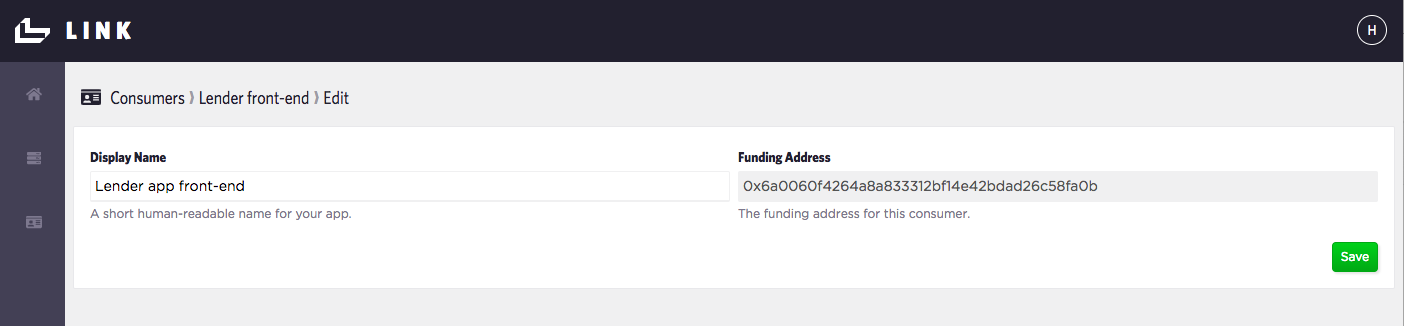
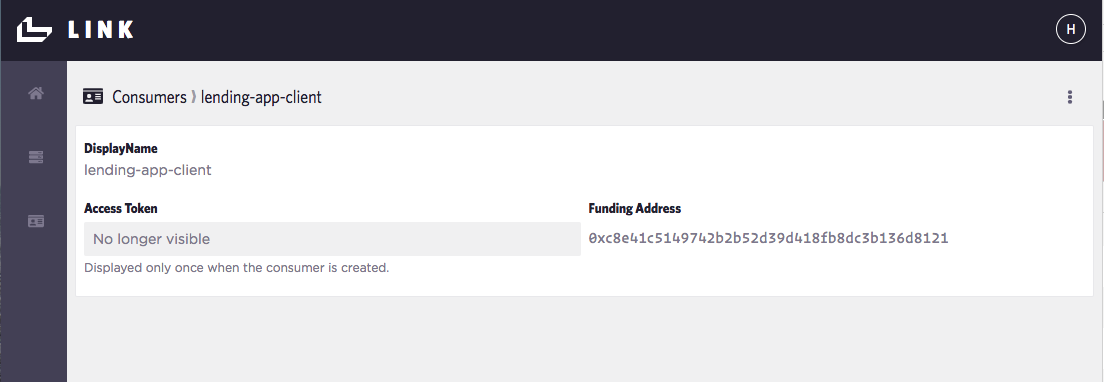
Add activity 5

Changed region(s): [[0.0, 0.0, 1.0, 1.0], [0.5236, 0.4601, 0.8623, 0.6748], [0.9239, 0.4908, 1.0, 1.0]]

diff --git a/activity5/activity5.md b/activity5/activity5.md
@@ -1,12 +1,14 @@
-# Refactor your Lending DApp to use Blockmason Link
+# Refactor your Lending App to use Blockmason Link
 ## Goal
-In this activity, we will use Link - a smart contract API wrapper to refactor our Lending DApp.
+In this activity, we will use Link - a smart contract API wrapper to refactor our Lending app's `createLoan()` function. 
+
+**Note:** Link is still in early stage beta and so its setup and use will not be as streamlined as we intent it to be in the near future. But you get the first peek! 
 
 ## Exercise
 This activity will require you to:
 * Add your Lending smart contract to Link
-* Refactor your app.js to use Link
-* Compare and contrast the effort in building DApps using traditional web3js tools vs. Link
+* Refactor the `createLoan()` function in app.js to use Link
+* Compare and contrast the approaches (web3.js vs. Link)
 
 ### Link Setup
 > Obtain your Link invitation code
@@ -68,14 +70,16 @@ The Lending contract address in this case is `0xc980b32ed01fac955520f390fde00518
 
 ![Link App Setup](images/Link_App_setup.png)
 
-This creates an app with 3 functions:
+This creates an app with 3 functions. Note the data types on the right represent the _**return data type(s)**_ of the function call on the left. 
 
 ![Link App Functions](images/Link_App_functions.png)
 
-The first function is the `addLoan(...)` which takes in 5 parameters. Next we have the `loans` array which takes in a Loan ID parameter to retrive a Loan object. Finally, we have the `loansCount` variable which does not take in any parameters. 
+The first function `loans(loanID)` retrieves a `Loan` object that contains the creditor address, debtor address, amount uint, term uint and interest rate uint. Next we have the `loansCount` value which is just an uint. Finally, we have the `addLoan(..)` function which does return anything. 
 
 ### Consumers Setup
-In Link, _consumers_ represent front-end apps, individuals or anything that will transact with the smart contract on the network. For this activity, create a `Lender app front-end` consumer which will be provided with a **Funding Address**. 
+In Link, _consumers_ represent front-end apps, individuals or anything that will transact with the smart contract on the network. For this activity, create a `lending-app-client` consumer which will be provided with a **Funding Address**. 
+
+> The important thing to take note of here is the **Access Token that will only be displayed once** after you have created your consumer. Copy this Access Token which will be used when making the Link API calls.
 
 ![Link Consumer Setup](images/Link_Consumer_setup.png)
 
@@ -86,34 +90,72 @@ In Link, _consumers_ represent front-end apps, individuals or anything that will
 ### Blockmason Link API documentation
 > The API documentation can be found here: https://mason.link/api/
 
-### Constructing the API Request
-Each consumer in Link will have a _**Consumer Access Token**_ to be used when making requests. Think of this token as the API key which you will need to send as part of the `access_token` request query parameter. 
+### Constructing the API POST Request
+> It is recommended that you download a tool like Postman, or if you prefer to use cURL statements in the Terminal, to help construct the POST request first before we implement the `$.post(), $.ajax()` function in our `app.js`.
 
-> Here's an example of a cURL POST request to the endpoint `lending-app/loansCount`.  Note: Pipe the response into a json formatter like `python json.tool`:
+
+Each consumer in Link will use the _**Consumer Access Token**_ you copied before when making requests. Think of this token as the API key which you will need to send as part of the `access_token` request query parameter. For example:
+``` 
+https://api.block.mason.link/@harish/lending-app/addLoan?access_token=<consumer_access_token>
 ```
-curl -X POST -H 'Content-Type: application/json' 'https://api.block.mason.link/@harish/lending-app/loansCount?access_token=gyObHEUPNPDJm2VgY9tDHI23c-mrSr5KdHBUvgOxSJaI' | python -m json.tool
+
+Because we are making POST requests to a remote network, it will take some time for the requests to resolve. Recall in an earlier activity that transactions with the `Ropsten` network would take 20-30 seconds to process. 
+
+The approach with Link for executing POST requests is as follows:
+1. The POST request immediately returns a json response object that contains details of the request as well as an `id`.
+2. We can query the `id` to see if the request has successfully resolved.
+
+Let's look at this in action as we POST to the `addLoan` function.
+
+> The `addLoan` function takes the following parameters:
+* "creditor" : address string
+* "debtor" : address string
+* "amount" : integer* (or hex string)
+* "term": integer (or hex string)
+* "interest": integer(or hex string)
+
+The reason for specifying _(or hex string)_ is because eventually everything passed into a Solidity contract function gets serialized before being transacted on the Ethereum network. 
+
+Recall that the `amount` is in Wei which, for 1 ETH is 10^18 Wei. This number is too large to be represented in JavaScript as a raw number. Hence, it needs to be converted into hex string for our POST request. The `term` and `interest` values are small and OK to use as integers. 
+
+> Putting it all together into a cURL statement, we get:
 ```
-And here is the `CreateInvocationResponse` object that is returned:
+curl -X POST -H 'Content-Type: application/json' -d '{ "creditor":"0xdef4f71e2da944ca4118c04ccf120f8a2bc7b92b","debtor":"0x20ecfb735eead9902b43cd553f485fd7a04d2791",
+"amount":"0x29a2241af62c0000",
+"term":6,
+"interest":3
+}' 'https://api.block.mason.link/@harish/lending-app/addLoan?access_token=33uTbK_be1F2GOw0glhQRoerT_Y3f8WMUaXqJ9kUREzR' | python -m json.tool
+```
+Note: By piping the response into a json formatter like `python json.tool`, we get a nicer output.
+
+
+The response looks like:
 ```
 {
     "data": {
         "attributes": {
-            "createdAt": "2018-11-14T01:29:22.684Z",
-            "inputs": {},
+            "createdAt": "2018-11-16T01:21:30.353Z",
+            "inputs": {
+                "creditor": "0xdef4f71e2da944ca4118c04ccf120f8a2bc7b92b",
+                "debtor": "0x20ecfb735eead9902b43cd553f485fd7a04d2791",
+                "amount": "0x29a2241af62c0000",
+                "term": 6,
+                "interest": 3
+            },
             "isRejected": false,
             "isResolved": false
         },
-        "id": "86N4M_mcl2Qke9EaeB-Fa5XFwL0e8G4mcobXVKGMAx0",
+        "id": "LQ7bzzQY7hFbIB2M4QjUdv85vLHkPFoIKNDLrwHX5m4",
         "relationships": {
             "function": {
                 "data": {
-                    "id": "DyNsZFQsxP87TaiYIT4DdmDB-fta3CjJbYytiDEdDAA",
+                    "id": "hx02iGhC7xf_qZpgs66tciazf2FzIc6NnIylbxevVhk",
                     "type": "function"
                 }
             },
             "owner": {
                 "data": {
-                    "id": "66ec4soxCaPD8d05jJKO_pSSsKT6qd_N-gxg-jRQ-IM",
+                    "id": "JD66EmDSP2BaA9isk1See6VPKN3rKdYiUd9QExxgzxs",
                     "type": "consumer"
                 }
             }
@@ -123,53 +165,85 @@ And here is the `CreateInvocationResponse` object that is returned:
     "jsonapi": "1.0",
     "meta": {
         "name": "@blockmason/link-api",
-        "version": "0.6.3"
+        "version": "0.7.0"
     }
 }
 ```
-Because we are making transaction requests to a remote network (Ropsten in this case), we essentially get back an object containing an _invocation_ id that we can use to make a follow-up GET request for the result. Think of it as somewhat like a process with a ticketing system - you make a request to get the latest `loansCount` value, receive a ticket,and then poll the system with the ticket ID to get the value. From the above reponse, the invocation id is `86N4M_mcl2Qke9EaeB-Fa5XFwL0e8G4mcobXVKGMAx0`. 
+In Postman, the request body and resulting output look like:
 
-> We then make a follow-up GET request using the invocation id (and the access token): 
+![Link Postman Request](images/Link_Postman_req_resp.png)
+
+> Now to check that the POST request successfully resolved, we use the response's `data.id` identifier, which above is `LQ7bzzQY7hFbIB2M4QjUdv85vLHkPFoIKNDLrwHX5m4` to make a subsequent GET request to the following URL:
+
 ```
-curl 'https://api.block.mason.link/invocations/86N4M_mcl2Qke9EaeB-Fa5XFwL0e8G4mcobXVKGMAx0?access_token=gyObHEUPNPDJm2VgY9tDHI23c-mrSr5KdHBUvgOxSJaI' | python -m json.tool
+https://api.block.mason.link/invocations/LQ7bzzQY7hFbIB2M4QjUdv85vLHkPFoIKNDLrwHX5m4?access_token=33uTbK_be1F2GOw0glhQRoerT_Y3f8WMUaXqJ9kUREzR
 ```
-And the output object looks like:
+Note the `/invocations/` as part of the URL. The response will look something like:
 ```
 {
     "data": {
         "attributes": {
-            "createdAt": "2018-11-14T01:02:55.023Z",
-            "inputs": {},
+            "createdAt": "2018-11-16T01:38:25.123Z",
+            "inputs": {
+                "creditor": "0xdef4f71e2da944ca4118c04ccf120f8a2bc7b92b",
+                "debtor": "0x20ecfb735eead9902b43cd553f485fd7a04d2791",
+                "amount": "0x29a2241af62c0000",
+                "term": 4,
+                "interest": 4
+            },
             "isRejected": false,
             "isResolved": true,
-            "outputs": [
-                1
-            ]
+            "outputs": {}
         },
         "relationships": {
             "function": {
                 "data": {
-                    "id": "DyNsZFQsxP87TaiYIT4DdmDB-fta3CjJbYytiDEdDAA",
+                    "id": "hx02iGhC7xf_qZpgs66tciazf2FzIc6NnIylbxevVhk",
                     "type": "function"
                 }
             },
             "owner": {
                 "data": {
-                    "id": "66ec4soxCaPD8d05jJKO_pSSsKT6qd_N-gxg-jRQ-IM",
+                    "id": "JD66EmDSP2BaA9isk1See6VPKN3rKdYiUd9QExxgzxs",
                     "type": "consumer"
                 }
             }
         },
-        "id": "86N4M_mcl2Qke9EaeB-Fa5XFwL0e8G4mcobXVKGMAx0",
+        "id": "_aHJgODUmS70odKBfV2sTSiosrpmJMENsOoat4GqdYU",
         "type": "invocation"
     },
     "jsonapi": "1.0",
     "meta": {
         "name": "@blockmason/link-api",
-        "version": "0.6.3"
+        "version": "0.7.0"
     }
 }
 ```
-The data we want is in `data["attributes"]["outputs"][0]` which has the value `1`. 
+ We are most interested in the `data.attributes.isResolved` value. If the original POST request has successfully resolved, this value will be `true`. 
+
+We can also check that the `addLoan` function has been successfully called if the transaction is visible in Etherscan under the contract address at: https://ropsten.etherscan.io/address/<contract_address>.
+
+### Update the `createLoan()` function 
+
+> Now that you know how to construct the API request, use `$.ajax(..)` or `$.post(..)` in `app.js` to POST to the `addLoan` function. 
+```
+createLoan: function() {
+    const debtor = $('#debtor').val();
+    const loanAmount = $('#loanAmount').val();
+    const loanTerm = $('#loanTerm').val();
+    const interestRate = $('#interestRate').val();
+    
+    // REFACTOR THIS CODE
+    App.contracts.Lending.deployed().then(function(instance) {
+      instance.addLoan(App.account, debtor, web3.toWei(loanAmount, 'ether'), loanTerm, interestRate, { from: App.account });
+    }).catch(function(err) {
+      console.error(err);
+    });
+  },
+```
+Details on using jQuery's `ajax()` can be found here: http://api.jquery.com/jquery.ajax/
+
+
+
 
 
